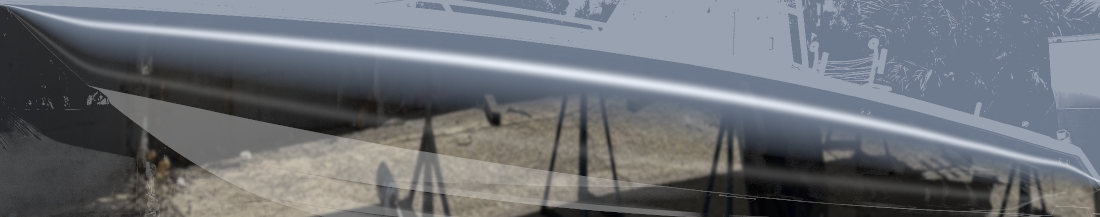
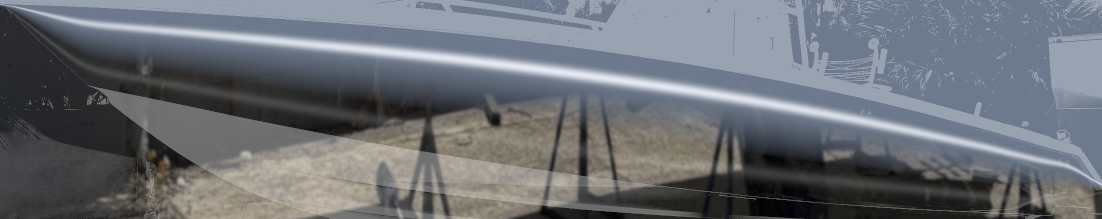
Match stern wrap to transom notch and rail corner

diff --git a/assets/boat-preview/boatpreview.js b/assets/boat-preview/boatpreview.js
@@ -3,7 +3,7 @@
    so it matches the selected film's hex exactly; gloss/satin/metallic reflections sit on top. */
 (function(){
   const BASE='assets/boat-preview/';
-  const META={SMAX:2.3,EMAX:0.16,W:1200,H:477,BB:[35,124,1135,341]};
+  const META={SMAX:2.3,EMAX:0.16,W:1200,H:477,BB:[35,124,1137,343]};
   const PCT={matte:50,satin:45,gloss:30,metal:35};
   let ready=null, data=null, pending=null;
   const lin=v=>{v/=255;return v<=0.04045?v/12.92:Math.pow((v+0.055)/1.055,2.4)};
